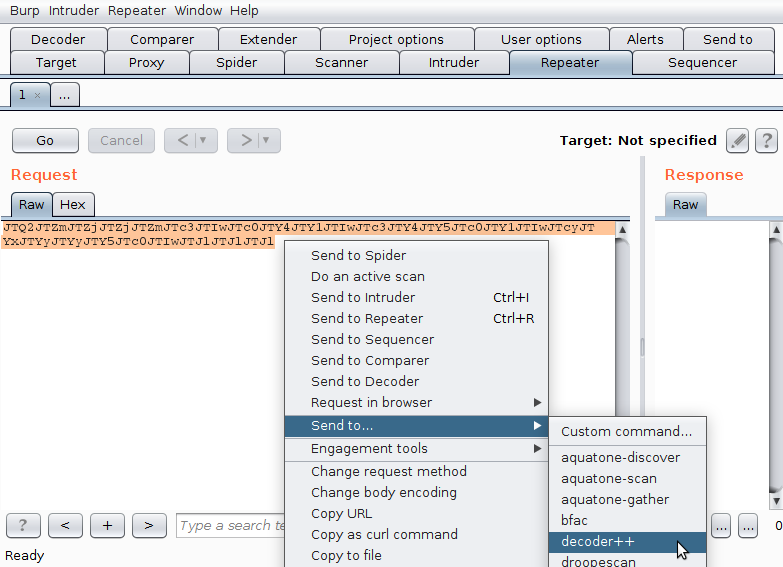
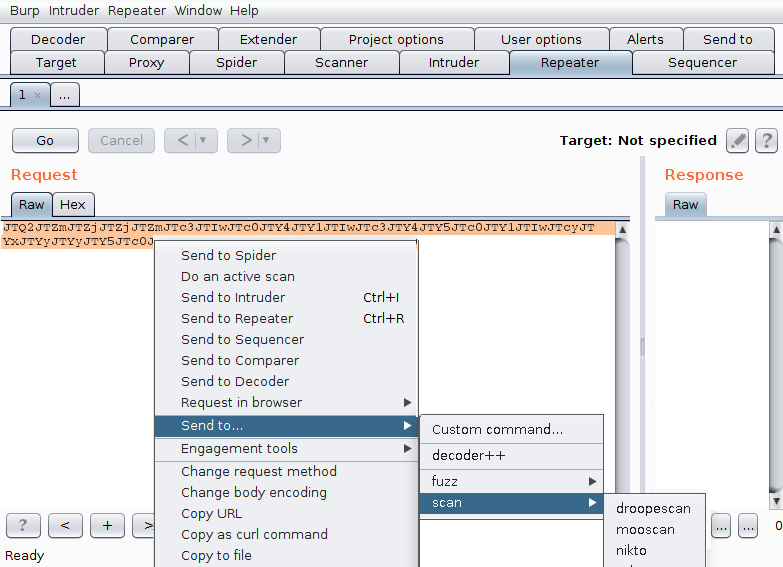
Added feature to group items within the context menu.

Changed region(s): [[0.1839, 0.3898, 0.9195, 1.0]]

diff --git a/README.md b/README.md
@@ -27,8 +27,6 @@ In addition you can add new entries via the "Custom command..."-context-menu-ent
 
 ![Burp-Send-To-Extension Context-Menu](images/burp-send-to-extension-context-menu-repeater.png)
 ![Burp-Send-To-Extension Context-Menu](images/burp-send-to-extension-context-menu-target-sitemap.png)
-![Burp-Send-To-Extension Context-Menu Groups](images/burp-send-to-extension-context-menu-groups.png)
-
 
 ## Save and load options
 
